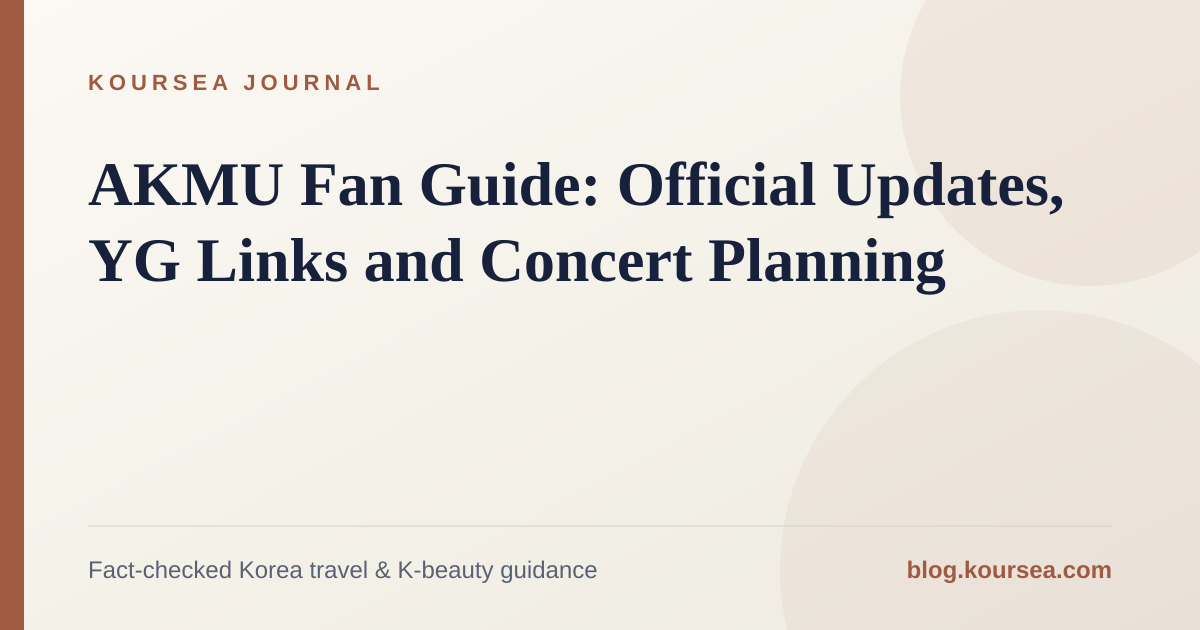
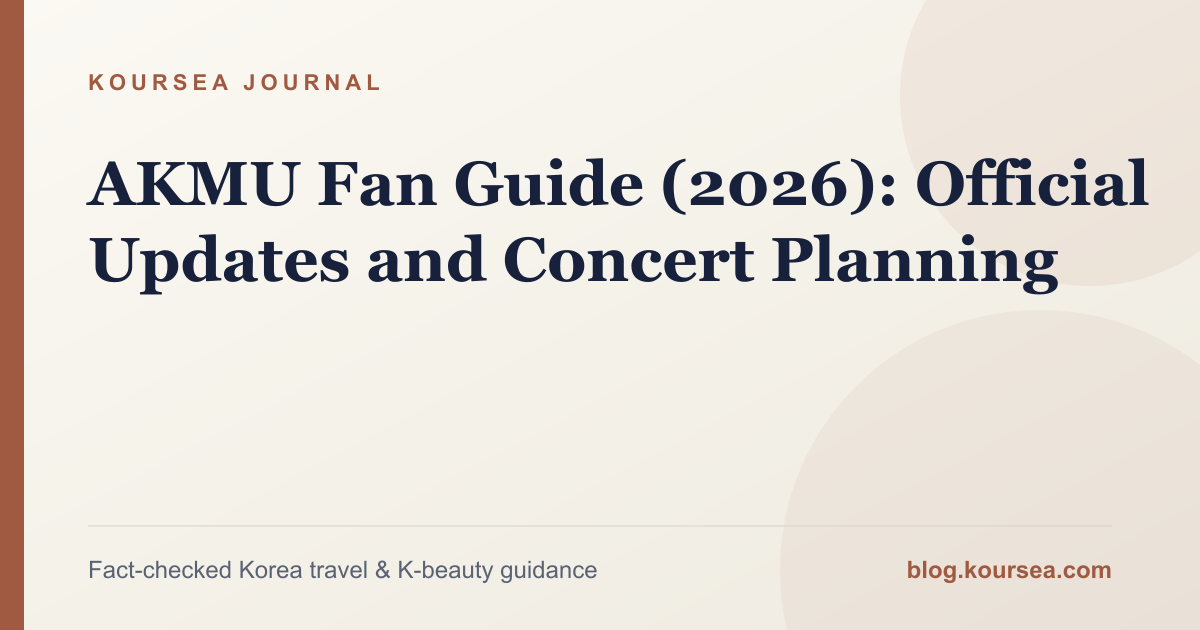
content: refresh remaining thin fan guides

diff --git a/src/content/posts/akmu-fan-guide.md b/src/content/posts/akmu-fan-guide.md
@@ -1,29 +1,29 @@
 ---
-title: "AKMU Fan Guide: Official Updates, YG Links and Concert Planning"
-description: "A careful AKMU fan guide for international visitors: official channels, public locations and how to verify concerts without relying on rumors."
+title: "AKMU Fan Guide (2026): Official Updates and Concert Planning"
+description: "A current AKMU fan guide for international visitors, including the 2026 contract transfer, official notices and safe concert planning."
 pubDate: 2026-09-10
-updatedDate: 2026-09-27
-tags: ["akmu", "yg entertainment", "kpop", "seoul", "foreigner-guide"]
+updatedDate: 2026-10-04
+tags: ["akmu", "kpop", "seoul", "concert tickets", "foreigner-guide"]
 canonicalUrl: "https://blog.koursea.com/posts/akmu-fan-guide/"
 author: "Koursea Editorial"
 faq:
   - question: "Where should overseas AKMU fans check current updates?"
-    answer: "Check YG Entertainment and AKMU's official social channels for releases, appearances, and ticket notices."
-  - question: "Can fans plan to visit a YG office?"
-    answer: "No office access should be assumed; the guide limits visits to publicly accessible areas and says not to wait at offices."
+    answer: "Start with the AKMU Weverse community and the duo's current official channels. AKMU's exclusive YG Entertainment contract ended before the community transferred in January 2026."
+  - question: "Is AKMU still under YG Entertainment?"
+    answer: "No. Weverse's official transfer notice says AKMU's exclusive contract with YG Entertainment ended and the community transferred to Cemter of Inspiration on January 27, 2026."
   - question: "How should fans verify a concert before booking travel?"
     answer: "Use the official announcement and the ticket link named there, then re-check the agency notice, venue rules, and ID requirements."
 ---
 
-AKMU (Lee Chan-hyuk and Lee Su-hyun) are a sibling duo under YG Entertainment. For an overseas fan, the useful plan is simple: follow official announcements first, then build a public Seoul route around verified, open locations.
+AKMU (Lee Chan-hyuk and Lee Su-hyun) are a sibling duo. Their long association with YG Entertainment is now historical: an [official Weverse notice](https://weverse.io/akmu/notice/33123) says their exclusive YG contract ended and the AKMU community transferred to **Cemter of Inspiration** on January 27, 2026. The spelling here follows the English notice.
 
 ## Official updates and tickets
 
-Check [YG Entertainment](https://www.ygfamily.com/) and AKMU's official social channels for releases, appearances and ticket notices. If no current concert is listed there, treat third-party event pages as unconfirmed rather than planning travel around them. Ticket links should lead to the official seller named in the announcement.
+Start with the [AKMU Weverse community](https://weverse.io/akmu/feed) and the duo's current official social channels for releases, appearances and ticket notices. Do not use an old YG profile as proof of a current schedule. If no current concert is announced through an AKMU channel or the named organizer, treat third-party calendar entries as leads rather than confirmed travel plans.
 
-## A YG-area day, not a private-visit plan
+## Build the trip around the event, not an old agency address
 
-The YG headquarters area and public fan retail spaces can be viewed only from publicly accessible areas. Do not wait at offices, follow artists or treat a workplace as a visitor attraction. For BLACKPINK- and YG-area context, see our [BLACKPINK Hapjeong guide](/posts/blackpink-fan-guide-yg-hapjeong/) and the related TREASURE guide when planning a wider route.
+An old agency address is not an AKMU attraction and should not anchor a fan itinerary. Build the day around a ticketed concert, festival, broadcast with public entry instructions, or an ordinary cultural stop. Do not wait at offices, studios, hotels or transport routes, and do not follow artists.
 
 ## Fan etiquette
 
@@ -31,17 +31,24 @@ Use official schedules, keep entrances clear and never share private sightings. 
 
 ## Official sources
 
-- [YG Entertainment](https://www.ygfamily.com/)
+- [Official AKMU community transfer notice](https://weverse.io/akmu/notice/33123)
+- [AKMU on Weverse](https://weverse.io/akmu/feed)
 - [Koursea K-pop concert ticketing guide](/posts/kpop-concert-ticketing-seoul-2026/)
 
 ## Verify the exact event, not only the artist name
 
-YG's official site identifies AKMU among its artists and provides the agency's current public notices. For a concert or appearance, open the dated notice and check the venue, performance date, named ticket seller and eligibility rules together. A third-party calendar can be a discovery tool, but it should not replace the organizer's page when you book a flight or buy a ticket.
+For a concert or appearance, open the dated AKMU or organizer notice and check the venue, performance date, named ticket seller and eligibility rules together. A third-party calendar can be a discovery tool, but it should not replace the organizer's page when you book a flight or buy a ticket.
 
 Membership presales, general sales and venue pickup can use different instructions. Keep the ticket account name consistent with the ID or passport requested by the seller, and save the original confirmation. If the official notice changes, the revised organizer notice controls.
 
-## Make the neighborhood stop worthwhile
+### Source order after the 2026 transfer
 
-If you visit Hapjeong, combine public retail or café stops with another nearby attraction instead of treating the office entrance as the destination. Photograph only from public areas, do not block the pavement, and do not wait for artists or vehicles. Merchandise inventory should be checked with the public shop itself.
+Use the AKMU community for artist-level notices, then follow the link in the dated post to the event organizer or ticket seller. For venue access, rely on the venue's own page. Archived YG pages can document earlier releases and history, but they are no longer the first source for a new AKMU booking. This distinction matters when an old search result ranks above a newer notice.
 
-Primary reference: [YG Entertainment's company and artist information](https://ygfamily.com/en/about/introduction). Koursea excludes private schedules and unverified sightings from fan routes.
+Before paying, match the event title, city, date and sale round across the artist notice and seller page. If any of those fields differ, stop and look for a correction notice.
+
+## A practical event-day check
+
+Save the original announcement and ticket confirmation offline. Check the venue's prohibited-items list, entry time and transport plan on the event day. If merchandise is sold, use the organizer's live notice for the booth hours and purchase limits rather than assuming an older tour's rules still apply.
+
+Primary reference: Weverse's [January 2026 contract-transfer notice](https://weverse.io/akmu/notice/33123). Koursea excludes private schedules and unverified sightings from fan routes.

diff --git a/src/content/posts/bebe-bada-lee-fan-guide.md b/src/content/posts/bebe-bada-lee-fan-guide.md
@@ -2,7 +2,7 @@
 title: "BEBE and Bada Lee Fan Guide: Official Activities and Fan Etiquette"
 description: "A source-conscious BEBE and Bada Lee guide covering official updates, public workshops when announced and respectful fan planning."
 pubDate: 2026-09-10
-updatedDate: 2026-09-27
+updatedDate: 2026-10-04
 tags: ["bebe", "bada lee", "street woman fighter", "kpop", "seoul"]
 canonicalUrl: "https://blog.koursea.com/posts/bebe-bada-lee-fan-guide/"
 author: "Koursea Editorial"
@@ -12,14 +12,14 @@ faq:
   - question: "What is the role of 1MILLION Dance Studio in the guide?"
     answer: "1MILLION is discussed as a public dance-studio reference point, with visits kept respectful and limited to what the venue officially allows."
   - question: "Which sources should fans check for current information?"
-    answer: "The post points readers to The L1ve and Mnet Plus for official activity and event information."
+    answer: "Start with Bada Lee's verified Instagram account, then confirm each workshop or appearance through the named organizer or broadcaster."
 ---
 
-Bada Lee leads BEBE, the seven-member crew of Bada, Lusher, Kyma, Tatter, Minah, Cheche and Sowon. BEBE won Mnet's *Street Woman Fighter 2* in 2023 and was announced as represented by The L1ve in May 2024.
+Bada Lee leads BEBE, the seven-member crew of Bada, Lusher, Kyma, Tatter, Minah, Cheche and Sowon. BEBE won Mnet's *Street Woman Fighter 2* in 2023. Because representation and booking contacts can change, this guide does not treat an older agency announcement as a current event calendar.
 
 ## What visitors can actually attend
 
-Check [The L1ve](https://www.thel1ve.com/) and BEBE members' verified social accounts for performances, workshops and collaborations. A class belongs in a travel plan only when an official notice provides a public booking route, location and current terms. No such notice means this is a fan-information guide, not a studio-visit promise.
+Check [Bada Lee's verified Instagram](https://www.instagram.com/badalee__/) and the named organizer's official account for performances, workshops and collaborations. A class belongs in a travel plan only when a dated notice provides a public booking route, location and current terms. No such notice means this is a fan-information guide, not a studio-visit promise.
 
 ## About 1MILLION Dance Studio
 
@@ -31,7 +31,7 @@ Attend only announced public events, follow venue filming rules and avoid privat
 
 ## Official sources
 
-- [The L1ve](https://www.thel1ve.com/)
+- [Bada Lee on Instagram](https://www.instagram.com/badalee__/)
 - [Mnet](https://www.mnetplus.world/)
 
 ## How to verify a workshop or appearance
@@ -40,8 +40,14 @@ Start with the artist, agency, broadcaster or host studio's official account. A 
 
 If a studio lists only its normal class timetable, do not assume a specific dancer will teach. Guest teachers and public workshops should be named in a dated announcement. Recheck the post shortly before travel because cast, time and venue changes can happen.
 
+### Before paying for a class
+
+Confirm the teacher's name, class date, studio branch and booking account on the same organizer notice. Check the cancellation policy, age or skill restrictions, and whether the fee covers only the class or also filming. If payment is requested through a personal account or direct message that is not linked by the host, pause and verify it with the studio. Save the confirmation and any entry instructions offline.
+
+For visitors, the most useful announcement is one that clearly says the class is open to the public and explains how a non-Korean participant can register. A promotional dance clip by itself is not a booking notice.
+
 ## Public-event etiquette
 
 Arrive within the organizer's stated check-in window and follow rules for shoes, cameras and personal belongings. Do not turn a workplace or rehearsal location into an unofficial waiting area. Avoid publishing private movements or asking staff to disclose an unannounced schedule.
 
-The L1ve and Mnet Plus links above are the primary starting points used by this guide. Event-specific organizer notices take precedence over this overview.
+Bada Lee's verified account and Mnet are the primary discovery points used by this guide. The event-specific host or ticket notice takes precedence over this overview.

diff --git a/src/content/posts/rescene-fan-guide.md b/src/content/posts/rescene-fan-guide.md
@@ -2,7 +2,7 @@
 title: "RESCENE Fan Guide: Official Channels and Seoul Visit Planning"
 description: "Plan a RESCENE-focused Korea trip using official agency notices, verified public venues and practical fan etiquette."
 pubDate: 2026-09-10
-updatedDate: 2026-09-27
+updatedDate: 2026-10-04
 tags: ["rescene", "the muze", "kpop", "seoul", "foreigner-guide"]
 canonicalUrl: "https://blog.koursea.com/posts/rescene-fan-guide/"
 author: "Koursea Editorial"
@@ -19,7 +19,7 @@ RESCENE debuted in 2024 under THE MUZE Entertainment. The group is commonly desc
 
 ## Where to verify activities
 
-Use [THE MUZE Entertainment's official channels](https://www.the-muze.com/) and RESCENE's verified social accounts for releases, fan events and ticket instructions. A fan meeting or concert is only a travel plan once the official notice names the date, venue and seller.
+Use the [RESCENE official community on Mnet Plus](https://artist.mnetplus.world/main/stg/rescene-official/contents) and [official YouTube channel](https://www.youtube.com/@RESCENE_official) for releases, fan events and ticket instructions. The former agency-domain link used by this guide no longer resolves, so it has been removed rather than presented as a current source. A fan meeting or concert is only a travel plan once the official notice names the date, venue and seller.
 
 ## Merchandise and fan access
 
@@ -31,7 +31,8 @@ There is no reason to visit private offices or chase unannounced schedules. Publ
 
 ## Official sources
 
-- [THE MUZE Entertainment](https://www.the-muze.com/)
+- [RESCENE official community on Mnet Plus](https://artist.mnetplus.world/main/stg/rescene-official/contents)
+- [RESCENE official YouTube](https://www.youtube.com/@RESCENE_official)
 - [Koursea K-pop concert ticketing guide](/posts/kpop-concert-ticketing-seoul-2026/)
 
 ## Turn an announcement into a travel check
@@ -44,4 +45,4 @@ For albums or event benefits, read the product page for the exact edition and ev
 
 Use announced stages, broadcasts with public application instructions, ticketed events and authorized retailers. Do not wait outside private offices, hotels, salons or transport routes. If a public venue has a queue, follow staff instructions and leave entrances and neighboring businesses clear.
 
-The agency site is the primary source used for the group's current public information. Koursea does not confirm rumors, private schedules or fan-created registration forms; when the agency does not publish a visit or booking route, this guide treats it as unavailable.
+The official community and artist channel are the primary sources used for the group's current public information. Koursea does not confirm rumors, private schedules or fan-created registration forms; when the artist or organizer does not publish a visit or booking route, this guide treats it as unavailable.

diff --git a/src/content/posts/treasure-fan-guide-yg-hapjeong.md b/src/content/posts/treasure-fan-guide-yg-hapjeong.md
@@ -2,7 +2,7 @@
 title: "TREASURE Fan Guide (2026): Official Sources, YG Hapjeong & the SameE"
 description: "A source-checked TREASURE fan guide covering the current lineup, official fan club and store, YG's Hapjeong neighborhood, and concert ticket preparation."
 pubDate: 2026-09-10
-updatedDate: 2026-09-27
+updatedDate: 2026-10-04
 tags: ["K-Pop", "TREASURE", "YG Entertainment", "Hapjeong", "Concert Tickets"]
 canonicalUrl: "https://blog.koursea.com/posts/treasure-fan-guide-yg-hapjeong/"
 author: "Koursea Editorial"
@@ -30,6 +30,8 @@ TREASURE is a 10-member group under YG Entertainment: Choi Hyunsuk, Jihoon, Yosh
 
 Use the official [Weverse Shop](https://shop.weverse.io/en/shop/USD/artists/25/sales/4637) for current membership details and [YG SELECT](https://en.ygselect.com/category/treasure/592) for official goods. Check stock, edition and shipping region on the live product page.
 
+The [official YG profile](https://www.ygfamily.com/en/artists/treasure/profile) is the reference for the current 10-member lineup used in this guide. Fan databases can help with discovery, but they should not override a current agency profile or dated notice.
+
 ## Visiting the YG area respectfully
 
 [YG Entertainment's headquarters](https://www.koursea.com/place/5362/) is a controlled workplace, not a showroom. Stay on public sidewalks and keep entrances clear. The SameE is a public café and merchandise space for YG artists generally, so inventory and temporary events can change.
@@ -53,6 +55,15 @@ Public schedules, ticketed events and authorized retail spaces are appropriate t
 Start with TREASURE's official YG page, then open the dated notice for the specific performance or fan event. The announcement should identify the venue, sale timetable, seller and any membership-verification step. For example, YG's official notices distinguish fan-club verification from the later ticket sale; do not assume that buying a membership after a verification window creates presale access.
 
 Recheck the seller's identity rules before payment. Use the same romanized name format throughout the membership, ticket and passport fields when the notice requires identity matching. Save the confirmation, order number and event notice offline for venue pickup.
+
+Use this order when pages disagree:
+
+1. The dated YG or TREASURE announcement for the exact event.
+2. The ticket seller linked by that announcement.
+3. The venue's own access and prohibited-items page.
+4. Weverse membership notices when presale verification is involved.
+
+Social reposts and translated summaries are useful alerts, but a screenshot without a working source link should not control a ticket purchase.
 
 ## Plan Hapjeong as a public route
 

diff --git a/src/content/posts/kpop-album-lucky-draw-offline-seoul-guide.md b/src/content/posts/kpop-album-lucky-draw-offline-seoul-guide.md
@@ -2,7 +2,7 @@
 title: "K-Pop Lucky Draws in Seoul: Check the Event Rules Before Paying"
 description: "How to verify a Seoul lucky-draw event, its store, purchase period, benefit rules and payment options before buying albums."
 pubDate: 2026-09-06
-updatedDate: 2026-09-27
+updatedDate: 2026-10-04
 tags: ["kpop shopping", "lucky draw", "soundwave", "koursea"]
 canonicalUrl: "https://blog.koursea.com/posts/kpop-album-lucky-draw-offline-seoul-guide/"
 author: "Koursea Editorial"
@@ -39,6 +39,19 @@ Open the store's dated official event notice and record the participating branch
 
 Keep the receipt until you have checked the album quantity and event benefit. If a card is declined, avoid repeated charges and review the issuer's app before trying again. Carry a second payment method, but do not split or repeat purchases unless staff confirms how that affects eligibility.
 
+### One-minute event notice checklist
+
+| Check | Why it matters |
+|---|---|
+| Exact album version | A random version, set and platform album can have different benefits. |
+| Purchase or draw period | Payment outside the stated window may not qualify. |
+| Offline branch or online page | A benefit listed online is not automatically available at every store. |
+| Benefit ratio | One album can mean one random benefit, while a set may use a different rule. |
+| Stock wording | Album stock and event-benefit stock can run out separately. |
+| Collection and ID rule | Some events require the purchaser or winner to present matching identification. |
+
+Soundwave maintains a dedicated [official Lucky Draw category](https://en.sound-wave.co.kr/category/lucky-draw/408/), where product titles show that random, set and bonus-benefit rules can differ even within the same artist release. Read the individual product or event page, not only the category card, before paying.
+
 ## Source standard
 
-This guide intentionally does not promise a universal token, kiosk or foreign-card workaround. Use the current notice published by Soundwave, Music Plant or the named event operator, plus instructions from on-site staff. An unofficial fan post can alert you to an event, but the retailer's dated notice controls the purchase and benefit terms.
+This guide intentionally does not promise a universal token, kiosk or foreign-card workaround. Use the current notice published by Soundwave, Music Plant or the named event operator, plus instructions from on-site staff. An unofficial fan post can alert you to an event, but the retailer's dated notice controls the purchase and benefit terms. Checked against Soundwave's official Lucky Draw category on October 4, 2026.
